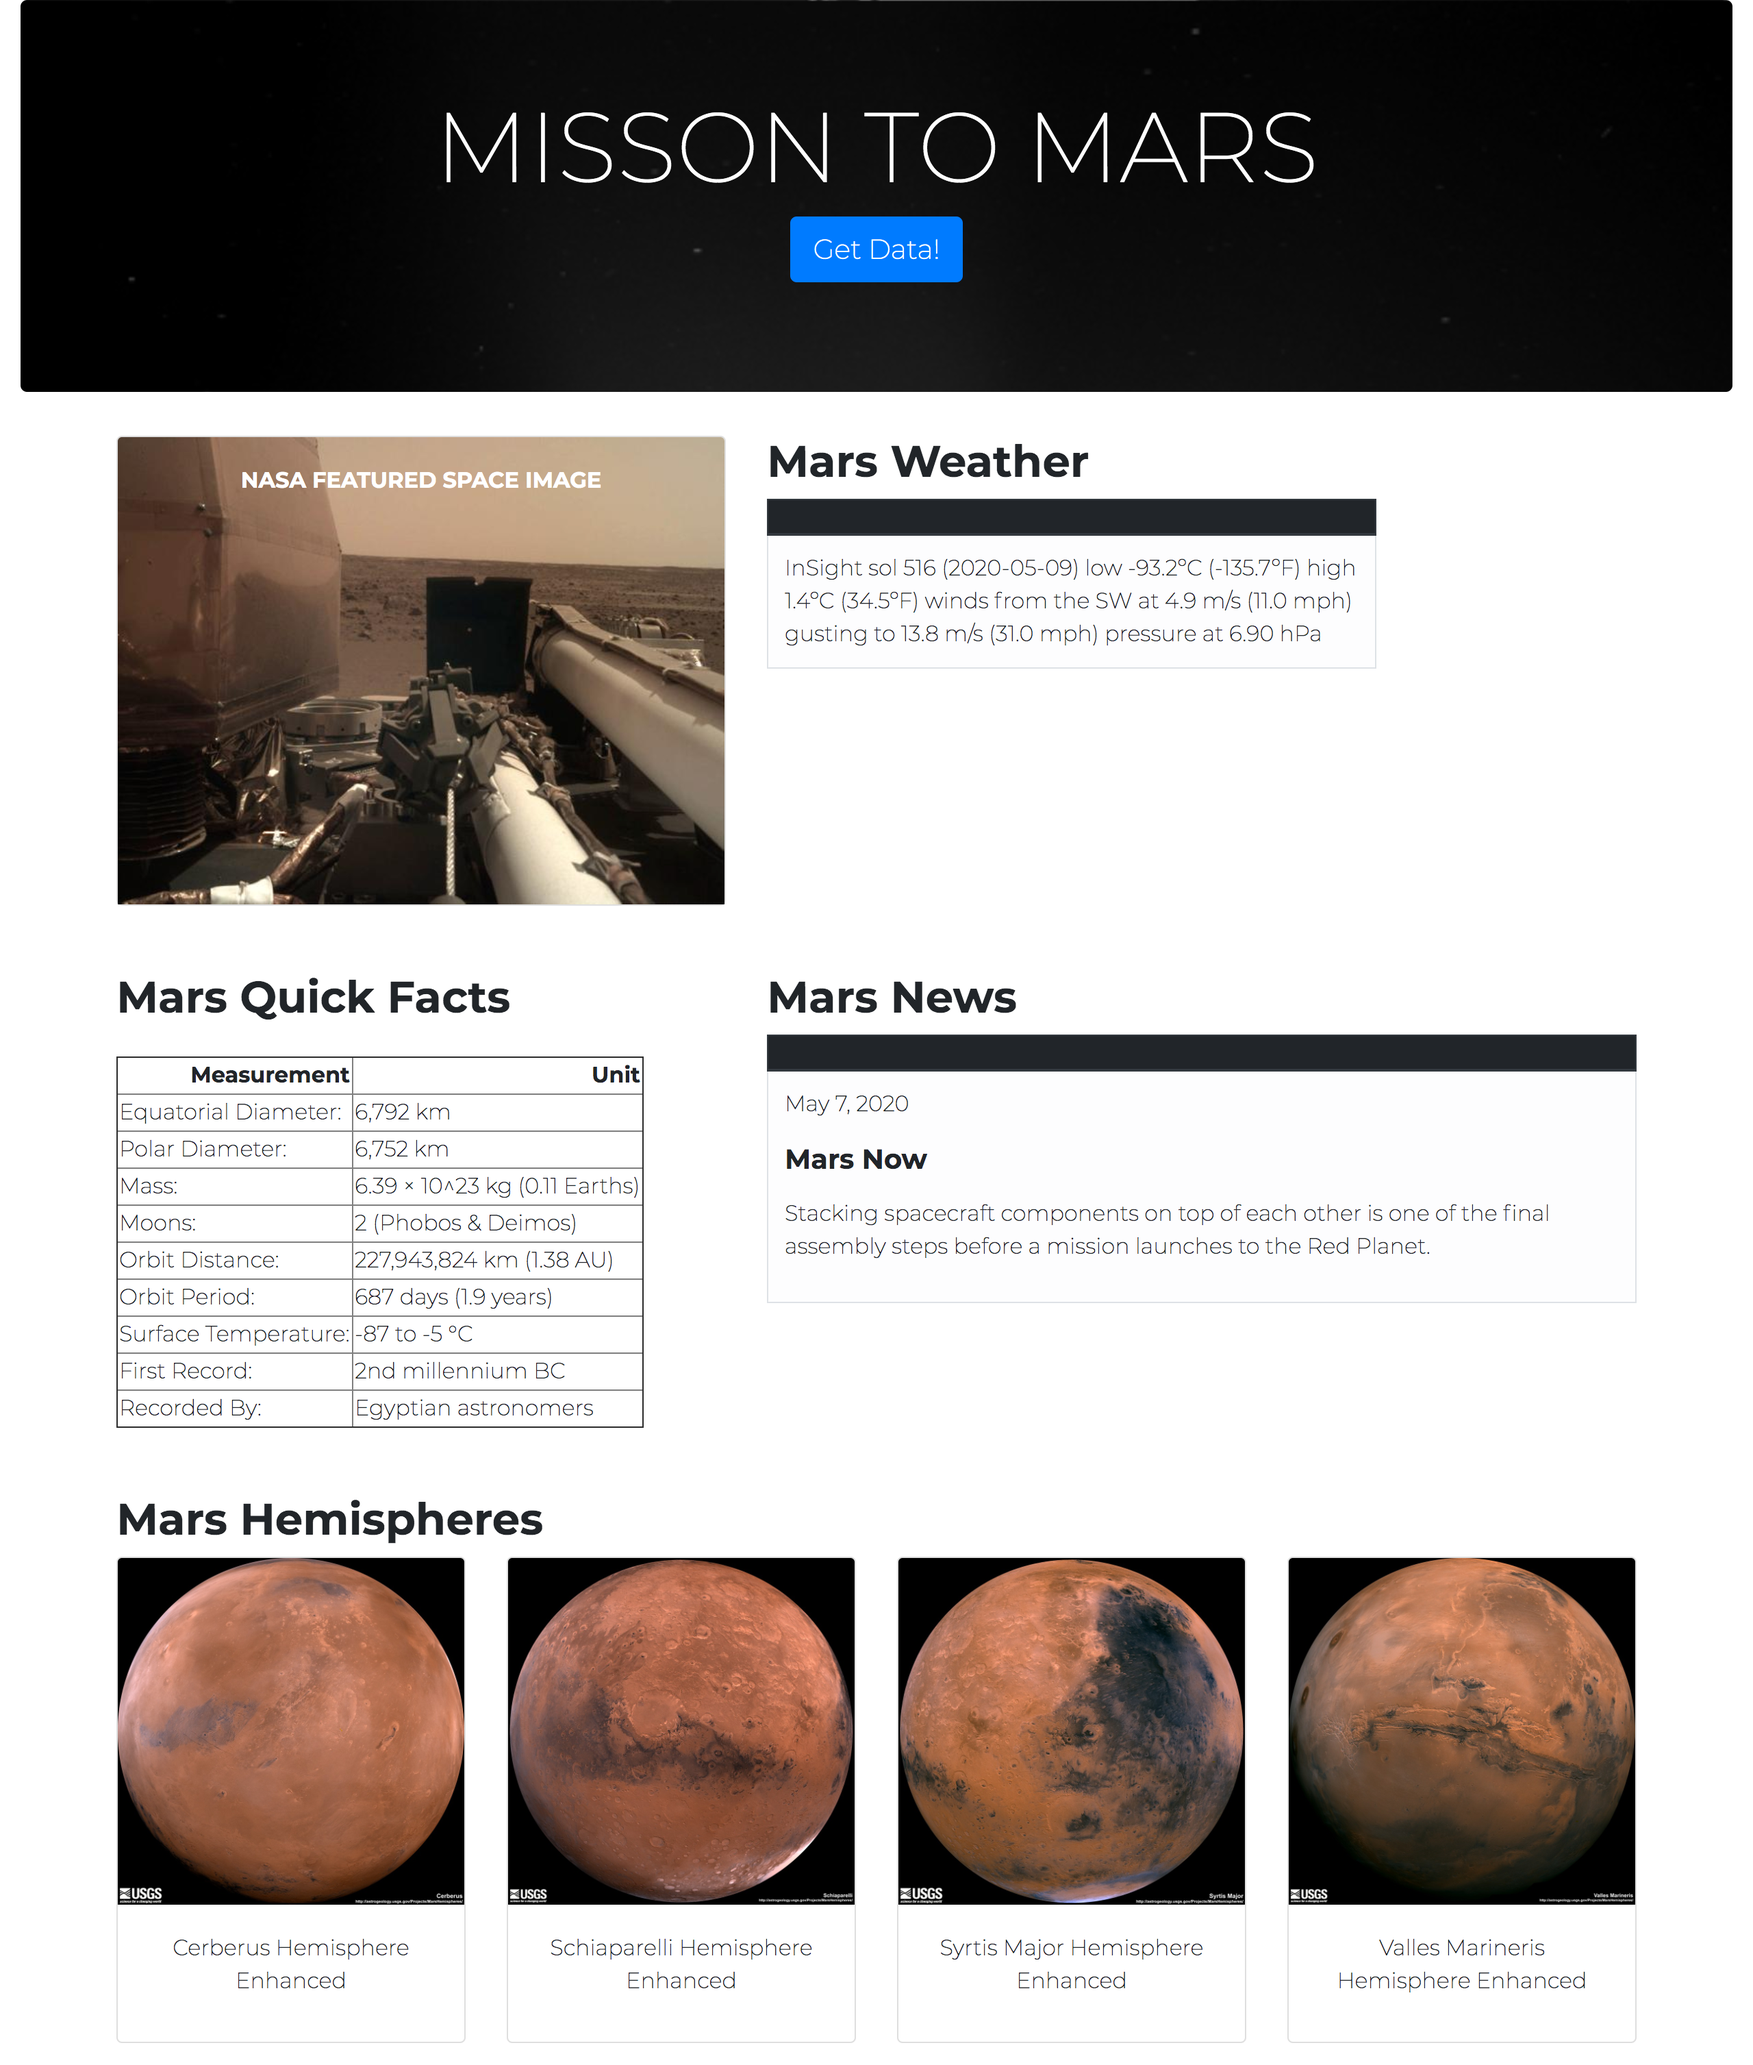
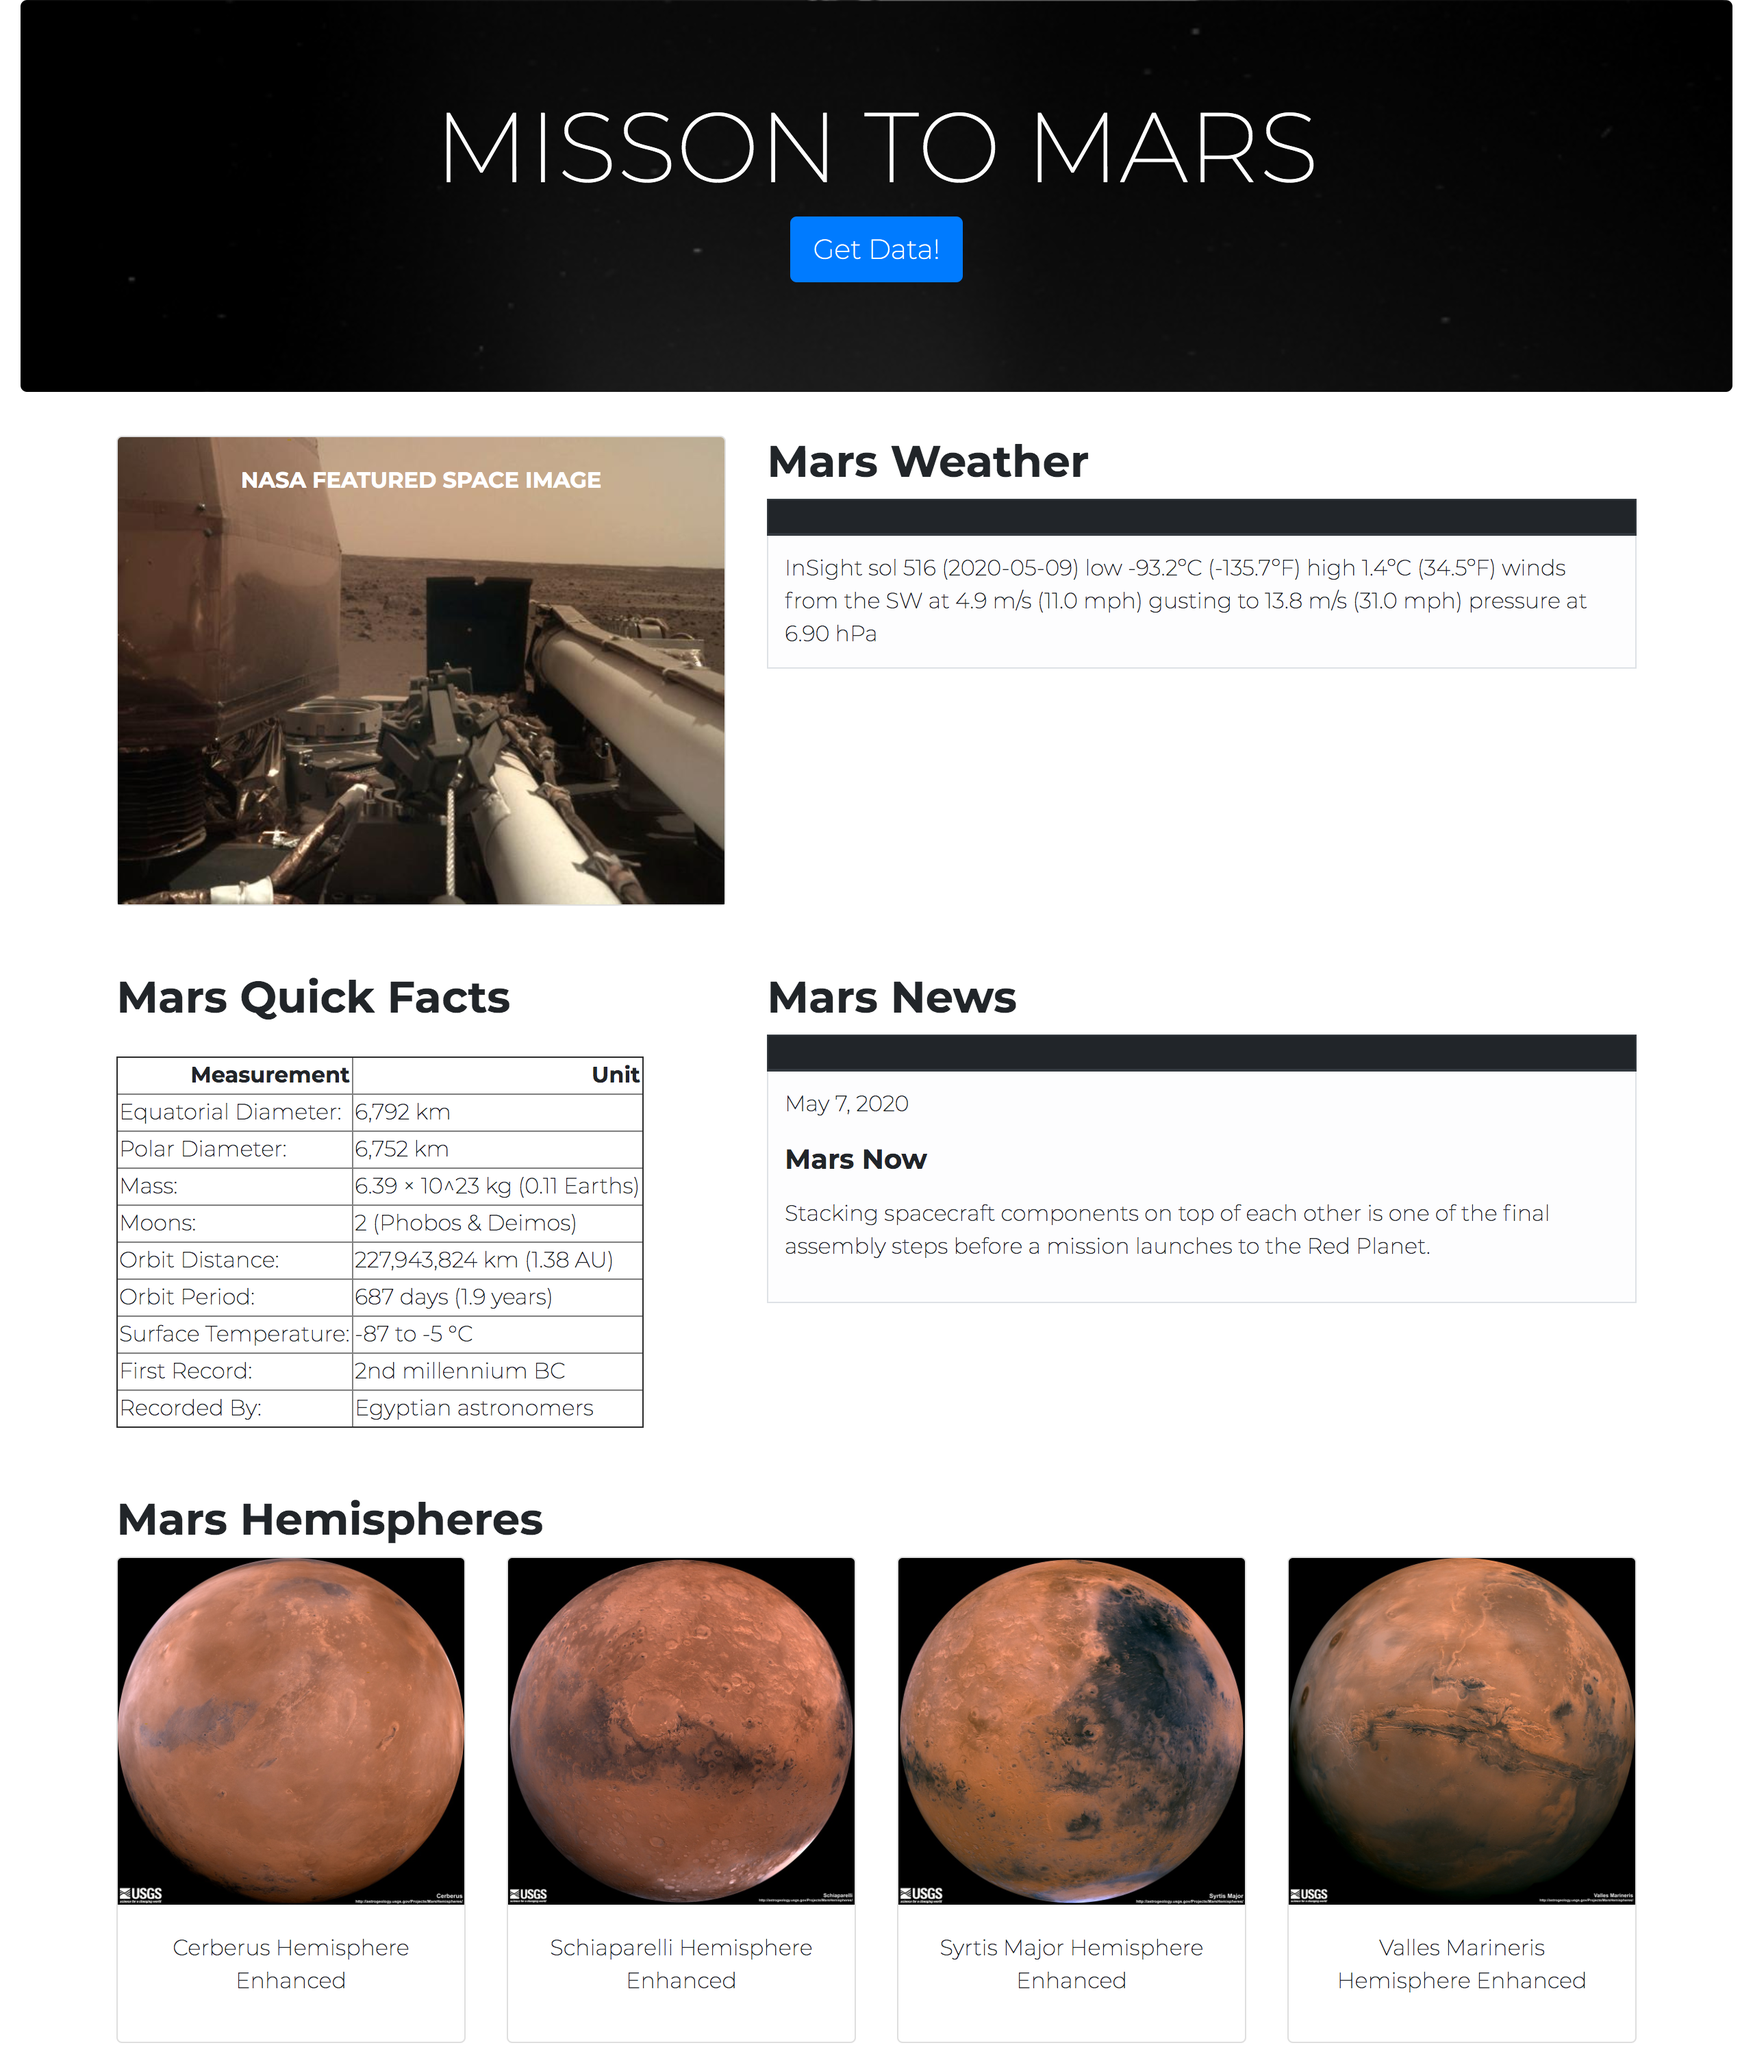
mars wthr tble

Changed region(s): [[0.4375, 0.2807, 0.7812, 0.3119], [0.7812, 0.2183, 0.9375, 0.2807]]

diff --git a/templates/index.html b/templates/index.html
@@ -39,7 +39,7 @@
                 </div>
               </div>
     <!-- Mars Weather -->
-              <div class="col-sm-6 col-lg-5">
+              <div class="col-sm-6 col-lg-7">
                 <h2 class="font-weight-bold">Mars Weather</h2>
                 <table class="table table-bordered table-light" >
                   <thead class="thead-dark">
